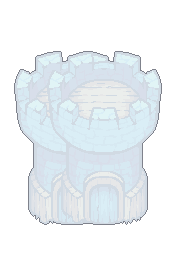
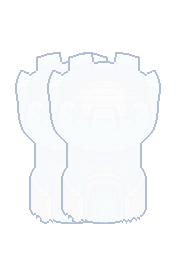
Esquive en deux silhouettes fines, vitrine de l'apparence de la tour et planche à jour (T9.25)
Claude-Session: https://claude.ai/code/session_01FhwUofV87STXJtiHUMMCG9

diff --git a/assets/tour_apparence/SOURCES.md b/assets/tour_apparence/SOURCES.md
@@ -11,53 +11,53 @@ sont publiées sous CC0 1.0 avec le jeu ; le script fait foi :
 `godot --headless --path . --script res://tools/dessiner_apparence_tour.gd` les régénère à
 l’identique. Points de pose : `data/skins_tour.json`.
 
-| Image                         | Ce qu’elle montre                                                                                                           | Outil                      | Licence |
-| ----------------------------- | --------------------------------------------------------------------------------------------------------------------------- | -------------------------- | ------- |
-| `epines_1_arriere.png`        | ceinture de piques de longueurs, d’épaisseurs et d’angles variés, palier 1, couche arriere                                  | Godot 4.7.2, `Image` (MIT) | CC0 1.0 |
-| `epines_1_avant.png`          | ceinture de piques de longueurs, d’épaisseurs et d’angles variés, palier 1, couche avant                                    | Godot 4.7.2, `Image` (MIT) | CC0 1.0 |
-| `epines_2_arriere.png`        | ceinture de piques de longueurs, d’épaisseurs et d’angles variés, palier 2, couche arriere                                  | Godot 4.7.2, `Image` (MIT) | CC0 1.0 |
-| `epines_2_avant.png`          | ceinture de piques de longueurs, d’épaisseurs et d’angles variés, palier 2, couche avant                                    | Godot 4.7.2, `Image` (MIT) | CC0 1.0 |
-| `epines_3_arriere.png`        | ceinture de piques de longueurs, d’épaisseurs et d’angles variés, palier 3, couche arriere                                  | Godot 4.7.2, `Image` (MIT) | CC0 1.0 |
-| `epines_3_avant.png`          | ceinture de piques de longueurs, d’épaisseurs et d’angles variés, palier 3, couche avant                                    | Godot 4.7.2, `Image` (MIT) | CC0 1.0 |
-| `mana_1_arriere.png`          | bulle bleue (film arrière pâle, film avant avec reflet), palier 1, couche arriere                                           | Godot 4.7.2, `Image` (MIT) | CC0 1.0 |
-| `mana_1_avant.png`            | bulle bleue (film arrière pâle, film avant avec reflet), palier 1, couche avant                                             | Godot 4.7.2, `Image` (MIT) | CC0 1.0 |
-| `mana_2_arriere.png`          | bulle bleue (film arrière pâle, film avant avec reflet), palier 2, couche arriere                                           | Godot 4.7.2, `Image` (MIT) | CC0 1.0 |
-| `mana_2_avant.png`            | bulle bleue (film arrière pâle, film avant avec reflet), palier 2, couche avant                                             | Godot 4.7.2, `Image` (MIT) | CC0 1.0 |
-| `mana_3_arriere.png`          | bulle bleue (film arrière pâle, film avant avec reflet), palier 3, couche arriere                                           | Godot 4.7.2, `Image` (MIT) | CC0 1.0 |
-| `mana_3_avant.png`            | bulle bleue (film arrière pâle, film avant avec reflet), palier 3, couche avant                                             | Godot 4.7.2, `Image` (MIT) | CC0 1.0 |
-| `armure_1_arriere.png`        | blocs de plaques irréguliers qui suivent le fût, palier 1, couche arriere                                                   | Godot 4.7.2, `Image` (MIT) | CC0 1.0 |
-| `armure_1_avant.png`          | blocs de plaques irréguliers qui suivent le fût, palier 1, couche avant                                                     | Godot 4.7.2, `Image` (MIT) | CC0 1.0 |
-| `armure_2_arriere.png`        | blocs de plaques irréguliers qui suivent le fût, palier 2, couche arriere                                                   | Godot 4.7.2, `Image` (MIT) | CC0 1.0 |
-| `armure_2_avant.png`          | blocs de plaques irréguliers qui suivent le fût, palier 2, couche avant                                                     | Godot 4.7.2, `Image` (MIT) | CC0 1.0 |
-| `armure_3_arriere.png`        | blocs de plaques irréguliers qui suivent le fût, palier 3, couche arriere                                                   | Godot 4.7.2, `Image` (MIT) | CC0 1.0 |
-| `armure_3_avant.png`          | blocs de plaques irréguliers qui suivent le fût, palier 3, couche avant                                                     | Godot 4.7.2, `Image` (MIT) | CC0 1.0 |
-| `esquive_1_arriere.png`       | deux silhouettes nettes et transparentes de part et d’autre (silhouette de `Tower_Blue.png`, CC0), palier 1, couche arriere | Godot 4.7.2, `Image` (MIT) | CC0 1.0 |
-| `esquive_1_avant.png`         | deux silhouettes nettes et transparentes de part et d’autre (silhouette de `Tower_Blue.png`, CC0), palier 1, couche avant   | Godot 4.7.2, `Image` (MIT) | CC0 1.0 |
-| `esquive_2_arriere.png`       | deux silhouettes nettes et transparentes de part et d’autre (silhouette de `Tower_Blue.png`, CC0), palier 2, couche arriere | Godot 4.7.2, `Image` (MIT) | CC0 1.0 |
-| `esquive_2_avant.png`         | deux silhouettes nettes et transparentes de part et d’autre (silhouette de `Tower_Blue.png`, CC0), palier 2, couche avant   | Godot 4.7.2, `Image` (MIT) | CC0 1.0 |
-| `esquive_3_arriere.png`       | deux silhouettes nettes et transparentes de part et d’autre (silhouette de `Tower_Blue.png`, CC0), palier 3, couche arriere | Godot 4.7.2, `Image` (MIT) | CC0 1.0 |
-| `esquive_3_avant.png`         | deux silhouettes nettes et transparentes de part et d’autre (silhouette de `Tower_Blue.png`, CC0), palier 3, couche avant   | Godot 4.7.2, `Image` (MIT) | CC0 1.0 |
-| `regen_1_arriere.png`         | halo pâle derrière, lueur et étincelles devant, palier 1, couche arriere                                                    | Godot 4.7.2, `Image` (MIT) | CC0 1.0 |
-| `regen_1_avant.png`           | halo pâle derrière, lueur et étincelles devant, palier 1, couche avant                                                      | Godot 4.7.2, `Image` (MIT) | CC0 1.0 |
-| `regen_2_arriere.png`         | halo pâle derrière, lueur et étincelles devant, palier 2, couche arriere                                                    | Godot 4.7.2, `Image` (MIT) | CC0 1.0 |
-| `regen_2_avant.png`           | halo pâle derrière, lueur et étincelles devant, palier 2, couche avant                                                      | Godot 4.7.2, `Image` (MIT) | CC0 1.0 |
-| `regen_3_arriere.png`         | halo pâle derrière, lueur et étincelles devant, palier 3, couche arriere                                                    | Godot 4.7.2, `Image` (MIT) | CC0 1.0 |
-| `regen_3_avant.png`           | halo pâle derrière, lueur et étincelles devant, palier 3, couche avant                                                      | Godot 4.7.2, `Image` (MIT) | CC0 1.0 |
-| `vol_de_vie_1_arriere.png`    | filets rouges en spirale, d’épaisseurs variées, palier 1, couche arriere                                                    | Godot 4.7.2, `Image` (MIT) | CC0 1.0 |
-| `vol_de_vie_1_avant.png`      | filets rouges en spirale, d’épaisseurs variées, palier 1, couche avant                                                      | Godot 4.7.2, `Image` (MIT) | CC0 1.0 |
-| `vol_de_vie_2_arriere.png`    | filets rouges en spirale, d’épaisseurs variées, palier 2, couche arriere                                                    | Godot 4.7.2, `Image` (MIT) | CC0 1.0 |
-| `vol_de_vie_2_avant.png`      | filets rouges en spirale, d’épaisseurs variées, palier 2, couche avant                                                      | Godot 4.7.2, `Image` (MIT) | CC0 1.0 |
-| `vol_de_vie_3_arriere.png`    | filets rouges en spirale, d’épaisseurs variées, palier 3, couche arriere                                                    | Godot 4.7.2, `Image` (MIT) | CC0 1.0 |
-| `vol_de_vie_3_avant.png`      | filets rouges en spirale, d’épaisseurs variées, palier 3, couche avant                                                      | Godot 4.7.2, `Image` (MIT) | CC0 1.0 |
-| `epines_3_arriere_a1.png`     | ceinture de piques de longueurs, d’épaisseurs et d’angles variés, palier 3, couche arriere, image 2 du tour lent            | Godot 4.7.2, `Image` (MIT) | CC0 1.0 |
-| `epines_3_avant_a1.png`       | ceinture de piques de longueurs, d’épaisseurs et d’angles variés, palier 3, couche avant, image 2 du tour lent              | Godot 4.7.2, `Image` (MIT) | CC0 1.0 |
-| `vol_de_vie_3_arriere_a1.png` | filets rouges en spirale, d’épaisseurs variées, palier 3, couche arriere, image 2 du tour lent                              | Godot 4.7.2, `Image` (MIT) | CC0 1.0 |
-| `vol_de_vie_3_avant_a1.png`   | filets rouges en spirale, d’épaisseurs variées, palier 3, couche avant, image 2 du tour lent                                | Godot 4.7.2, `Image` (MIT) | CC0 1.0 |
-| `epines_3_arriere_a2.png`     | ceinture de piques de longueurs, d’épaisseurs et d’angles variés, palier 3, couche arriere, image 3 du tour lent            | Godot 4.7.2, `Image` (MIT) | CC0 1.0 |
-| `epines_3_avant_a2.png`       | ceinture de piques de longueurs, d’épaisseurs et d’angles variés, palier 3, couche avant, image 3 du tour lent              | Godot 4.7.2, `Image` (MIT) | CC0 1.0 |
-| `vol_de_vie_3_arriere_a2.png` | filets rouges en spirale, d’épaisseurs variées, palier 3, couche arriere, image 3 du tour lent                              | Godot 4.7.2, `Image` (MIT) | CC0 1.0 |
-| `vol_de_vie_3_avant_a2.png`   | filets rouges en spirale, d’épaisseurs variées, palier 3, couche avant, image 3 du tour lent                                | Godot 4.7.2, `Image` (MIT) | CC0 1.0 |
-| `epines_3_arriere_a3.png`     | ceinture de piques de longueurs, d’épaisseurs et d’angles variés, palier 3, couche arriere, image 4 du tour lent            | Godot 4.7.2, `Image` (MIT) | CC0 1.0 |
-| `epines_3_avant_a3.png`       | ceinture de piques de longueurs, d’épaisseurs et d’angles variés, palier 3, couche avant, image 4 du tour lent              | Godot 4.7.2, `Image` (MIT) | CC0 1.0 |
-| `vol_de_vie_3_arriere_a3.png` | filets rouges en spirale, d’épaisseurs variées, palier 3, couche arriere, image 4 du tour lent                              | Godot 4.7.2, `Image` (MIT) | CC0 1.0 |
-| `vol_de_vie_3_avant_a3.png`   | filets rouges en spirale, d’épaisseurs variées, palier 3, couche avant, image 4 du tour lent                                | Godot 4.7.2, `Image` (MIT) | CC0 1.0 |
+| Image                         | Ce qu’elle montre                                                                                                   | Outil                      | Licence |
+| ----------------------------- | ------------------------------------------------------------------------------------------------------------------- | -------------------------- | ------- |
+| `epines_1_arriere.png`        | ceinture de piques de longueurs, d’épaisseurs et d’angles variés, palier 1, couche arriere                          | Godot 4.7.2, `Image` (MIT) | CC0 1.0 |
+| `epines_1_avant.png`          | ceinture de piques de longueurs, d’épaisseurs et d’angles variés, palier 1, couche avant                            | Godot 4.7.2, `Image` (MIT) | CC0 1.0 |
+| `epines_2_arriere.png`        | ceinture de piques de longueurs, d’épaisseurs et d’angles variés, palier 2, couche arriere                          | Godot 4.7.2, `Image` (MIT) | CC0 1.0 |
+| `epines_2_avant.png`          | ceinture de piques de longueurs, d’épaisseurs et d’angles variés, palier 2, couche avant                            | Godot 4.7.2, `Image` (MIT) | CC0 1.0 |
+| `epines_3_arriere.png`        | ceinture de piques de longueurs, d’épaisseurs et d’angles variés, palier 3, couche arriere                          | Godot 4.7.2, `Image` (MIT) | CC0 1.0 |
+| `epines_3_avant.png`          | ceinture de piques de longueurs, d’épaisseurs et d’angles variés, palier 3, couche avant                            | Godot 4.7.2, `Image` (MIT) | CC0 1.0 |
+| `mana_1_arriere.png`          | bulle bleue (film arrière pâle, film avant avec reflet), palier 1, couche arriere                                   | Godot 4.7.2, `Image` (MIT) | CC0 1.0 |
+| `mana_1_avant.png`            | bulle bleue (film arrière pâle, film avant avec reflet), palier 1, couche avant                                     | Godot 4.7.2, `Image` (MIT) | CC0 1.0 |
+| `mana_2_arriere.png`          | bulle bleue (film arrière pâle, film avant avec reflet), palier 2, couche arriere                                   | Godot 4.7.2, `Image` (MIT) | CC0 1.0 |
+| `mana_2_avant.png`            | bulle bleue (film arrière pâle, film avant avec reflet), palier 2, couche avant                                     | Godot 4.7.2, `Image` (MIT) | CC0 1.0 |
+| `mana_3_arriere.png`          | bulle bleue (film arrière pâle, film avant avec reflet), palier 3, couche arriere                                   | Godot 4.7.2, `Image` (MIT) | CC0 1.0 |
+| `mana_3_avant.png`            | bulle bleue (film arrière pâle, film avant avec reflet), palier 3, couche avant                                     | Godot 4.7.2, `Image` (MIT) | CC0 1.0 |
+| `armure_1_arriere.png`        | blocs de plaques irréguliers qui suivent le fût, palier 1, couche arriere                                           | Godot 4.7.2, `Image` (MIT) | CC0 1.0 |
+| `armure_1_avant.png`          | blocs de plaques irréguliers qui suivent le fût, palier 1, couche avant                                             | Godot 4.7.2, `Image` (MIT) | CC0 1.0 |
+| `armure_2_arriere.png`        | blocs de plaques irréguliers qui suivent le fût, palier 2, couche arriere                                           | Godot 4.7.2, `Image` (MIT) | CC0 1.0 |
+| `armure_2_avant.png`          | blocs de plaques irréguliers qui suivent le fût, palier 2, couche avant                                             | Godot 4.7.2, `Image` (MIT) | CC0 1.0 |
+| `armure_3_arriere.png`        | blocs de plaques irréguliers qui suivent le fût, palier 3, couche arriere                                           | Godot 4.7.2, `Image` (MIT) | CC0 1.0 |
+| `armure_3_avant.png`          | blocs de plaques irréguliers qui suivent le fût, palier 3, couche avant                                             | Godot 4.7.2, `Image` (MIT) | CC0 1.0 |
+| `esquive_1_arriere.png`       | deux silhouettes fines (contour) de part et d’autre (silhouette de `Tower_Blue.png`, CC0), palier 1, couche arriere | Godot 4.7.2, `Image` (MIT) | CC0 1.0 |
+| `esquive_1_avant.png`         | deux silhouettes fines (contour) de part et d’autre (silhouette de `Tower_Blue.png`, CC0), palier 1, couche avant   | Godot 4.7.2, `Image` (MIT) | CC0 1.0 |
+| `esquive_2_arriere.png`       | deux silhouettes fines (contour) de part et d’autre (silhouette de `Tower_Blue.png`, CC0), palier 2, couche arriere | Godot 4.7.2, `Image` (MIT) | CC0 1.0 |
+| `esquive_2_avant.png`         | deux silhouettes fines (contour) de part et d’autre (silhouette de `Tower_Blue.png`, CC0), palier 2, couche avant   | Godot 4.7.2, `Image` (MIT) | CC0 1.0 |
+| `esquive_3_arriere.png`       | deux silhouettes fines (contour) de part et d’autre (silhouette de `Tower_Blue.png`, CC0), palier 3, couche arriere | Godot 4.7.2, `Image` (MIT) | CC0 1.0 |
+| `esquive_3_avant.png`         | deux silhouettes fines (contour) de part et d’autre (silhouette de `Tower_Blue.png`, CC0), palier 3, couche avant   | Godot 4.7.2, `Image` (MIT) | CC0 1.0 |
+| `regen_1_arriere.png`         | halo pâle derrière, lueur et étincelles devant, palier 1, couche arriere                                            | Godot 4.7.2, `Image` (MIT) | CC0 1.0 |
+| `regen_1_avant.png`           | halo pâle derrière, lueur et étincelles devant, palier 1, couche avant                                              | Godot 4.7.2, `Image` (MIT) | CC0 1.0 |
+| `regen_2_arriere.png`         | halo pâle derrière, lueur et étincelles devant, palier 2, couche arriere                                            | Godot 4.7.2, `Image` (MIT) | CC0 1.0 |
+| `regen_2_avant.png`           | halo pâle derrière, lueur et étincelles devant, palier 2, couche avant                                              | Godot 4.7.2, `Image` (MIT) | CC0 1.0 |
+| `regen_3_arriere.png`         | halo pâle derrière, lueur et étincelles devant, palier 3, couche arriere                                            | Godot 4.7.2, `Image` (MIT) | CC0 1.0 |
+| `regen_3_avant.png`           | halo pâle derrière, lueur et étincelles devant, palier 3, couche avant                                              | Godot 4.7.2, `Image` (MIT) | CC0 1.0 |
+| `vol_de_vie_1_arriere.png`    | filets rouges en spirale, d’épaisseurs variées, palier 1, couche arriere                                            | Godot 4.7.2, `Image` (MIT) | CC0 1.0 |
+| `vol_de_vie_1_avant.png`      | filets rouges en spirale, d’épaisseurs variées, palier 1, couche avant                                              | Godot 4.7.2, `Image` (MIT) | CC0 1.0 |
+| `vol_de_vie_2_arriere.png`    | filets rouges en spirale, d’épaisseurs variées, palier 2, couche arriere                                            | Godot 4.7.2, `Image` (MIT) | CC0 1.0 |
+| `vol_de_vie_2_avant.png`      | filets rouges en spirale, d’épaisseurs variées, palier 2, couche avant                                              | Godot 4.7.2, `Image` (MIT) | CC0 1.0 |
+| `vol_de_vie_3_arriere.png`    | filets rouges en spirale, d’épaisseurs variées, palier 3, couche arriere                                            | Godot 4.7.2, `Image` (MIT) | CC0 1.0 |
+| `vol_de_vie_3_avant.png`      | filets rouges en spirale, d’épaisseurs variées, palier 3, couche avant                                              | Godot 4.7.2, `Image` (MIT) | CC0 1.0 |
+| `epines_3_arriere_a1.png`     | ceinture de piques de longueurs, d’épaisseurs et d’angles variés, palier 3, couche arriere, image 2 du tour lent    | Godot 4.7.2, `Image` (MIT) | CC0 1.0 |
+| `epines_3_avant_a1.png`       | ceinture de piques de longueurs, d’épaisseurs et d’angles variés, palier 3, couche avant, image 2 du tour lent      | Godot 4.7.2, `Image` (MIT) | CC0 1.0 |
+| `vol_de_vie_3_arriere_a1.png` | filets rouges en spirale, d’épaisseurs variées, palier 3, couche arriere, image 2 du tour lent                      | Godot 4.7.2, `Image` (MIT) | CC0 1.0 |
+| `vol_de_vie_3_avant_a1.png`   | filets rouges en spirale, d’épaisseurs variées, palier 3, couche avant, image 2 du tour lent                        | Godot 4.7.2, `Image` (MIT) | CC0 1.0 |
+| `epines_3_arriere_a2.png`     | ceinture de piques de longueurs, d’épaisseurs et d’angles variés, palier 3, couche arriere, image 3 du tour lent    | Godot 4.7.2, `Image` (MIT) | CC0 1.0 |
+| `epines_3_avant_a2.png`       | ceinture de piques de longueurs, d’épaisseurs et d’angles variés, palier 3, couche avant, image 3 du tour lent      | Godot 4.7.2, `Image` (MIT) | CC0 1.0 |
+| `vol_de_vie_3_arriere_a2.png` | filets rouges en spirale, d’épaisseurs variées, palier 3, couche arriere, image 3 du tour lent                      | Godot 4.7.2, `Image` (MIT) | CC0 1.0 |
+| `vol_de_vie_3_avant_a2.png`   | filets rouges en spirale, d’épaisseurs variées, palier 3, couche avant, image 3 du tour lent                        | Godot 4.7.2, `Image` (MIT) | CC0 1.0 |
+| `epines_3_arriere_a3.png`     | ceinture de piques de longueurs, d’épaisseurs et d’angles variés, palier 3, couche arriere, image 4 du tour lent    | Godot 4.7.2, `Image` (MIT) | CC0 1.0 |
+| `epines_3_avant_a3.png`       | ceinture de piques de longueurs, d’épaisseurs et d’angles variés, palier 3, couche avant, image 4 du tour lent      | Godot 4.7.2, `Image` (MIT) | CC0 1.0 |
+| `vol_de_vie_3_arriere_a3.png` | filets rouges en spirale, d’épaisseurs variées, palier 3, couche arriere, image 4 du tour lent                      | Godot 4.7.2, `Image` (MIT) | CC0 1.0 |
+| `vol_de_vie_3_avant_a3.png`   | filets rouges en spirale, d’épaisseurs variées, palier 3, couche avant, image 4 du tour lent                        | Godot 4.7.2, `Image` (MIT) | CC0 1.0 |
